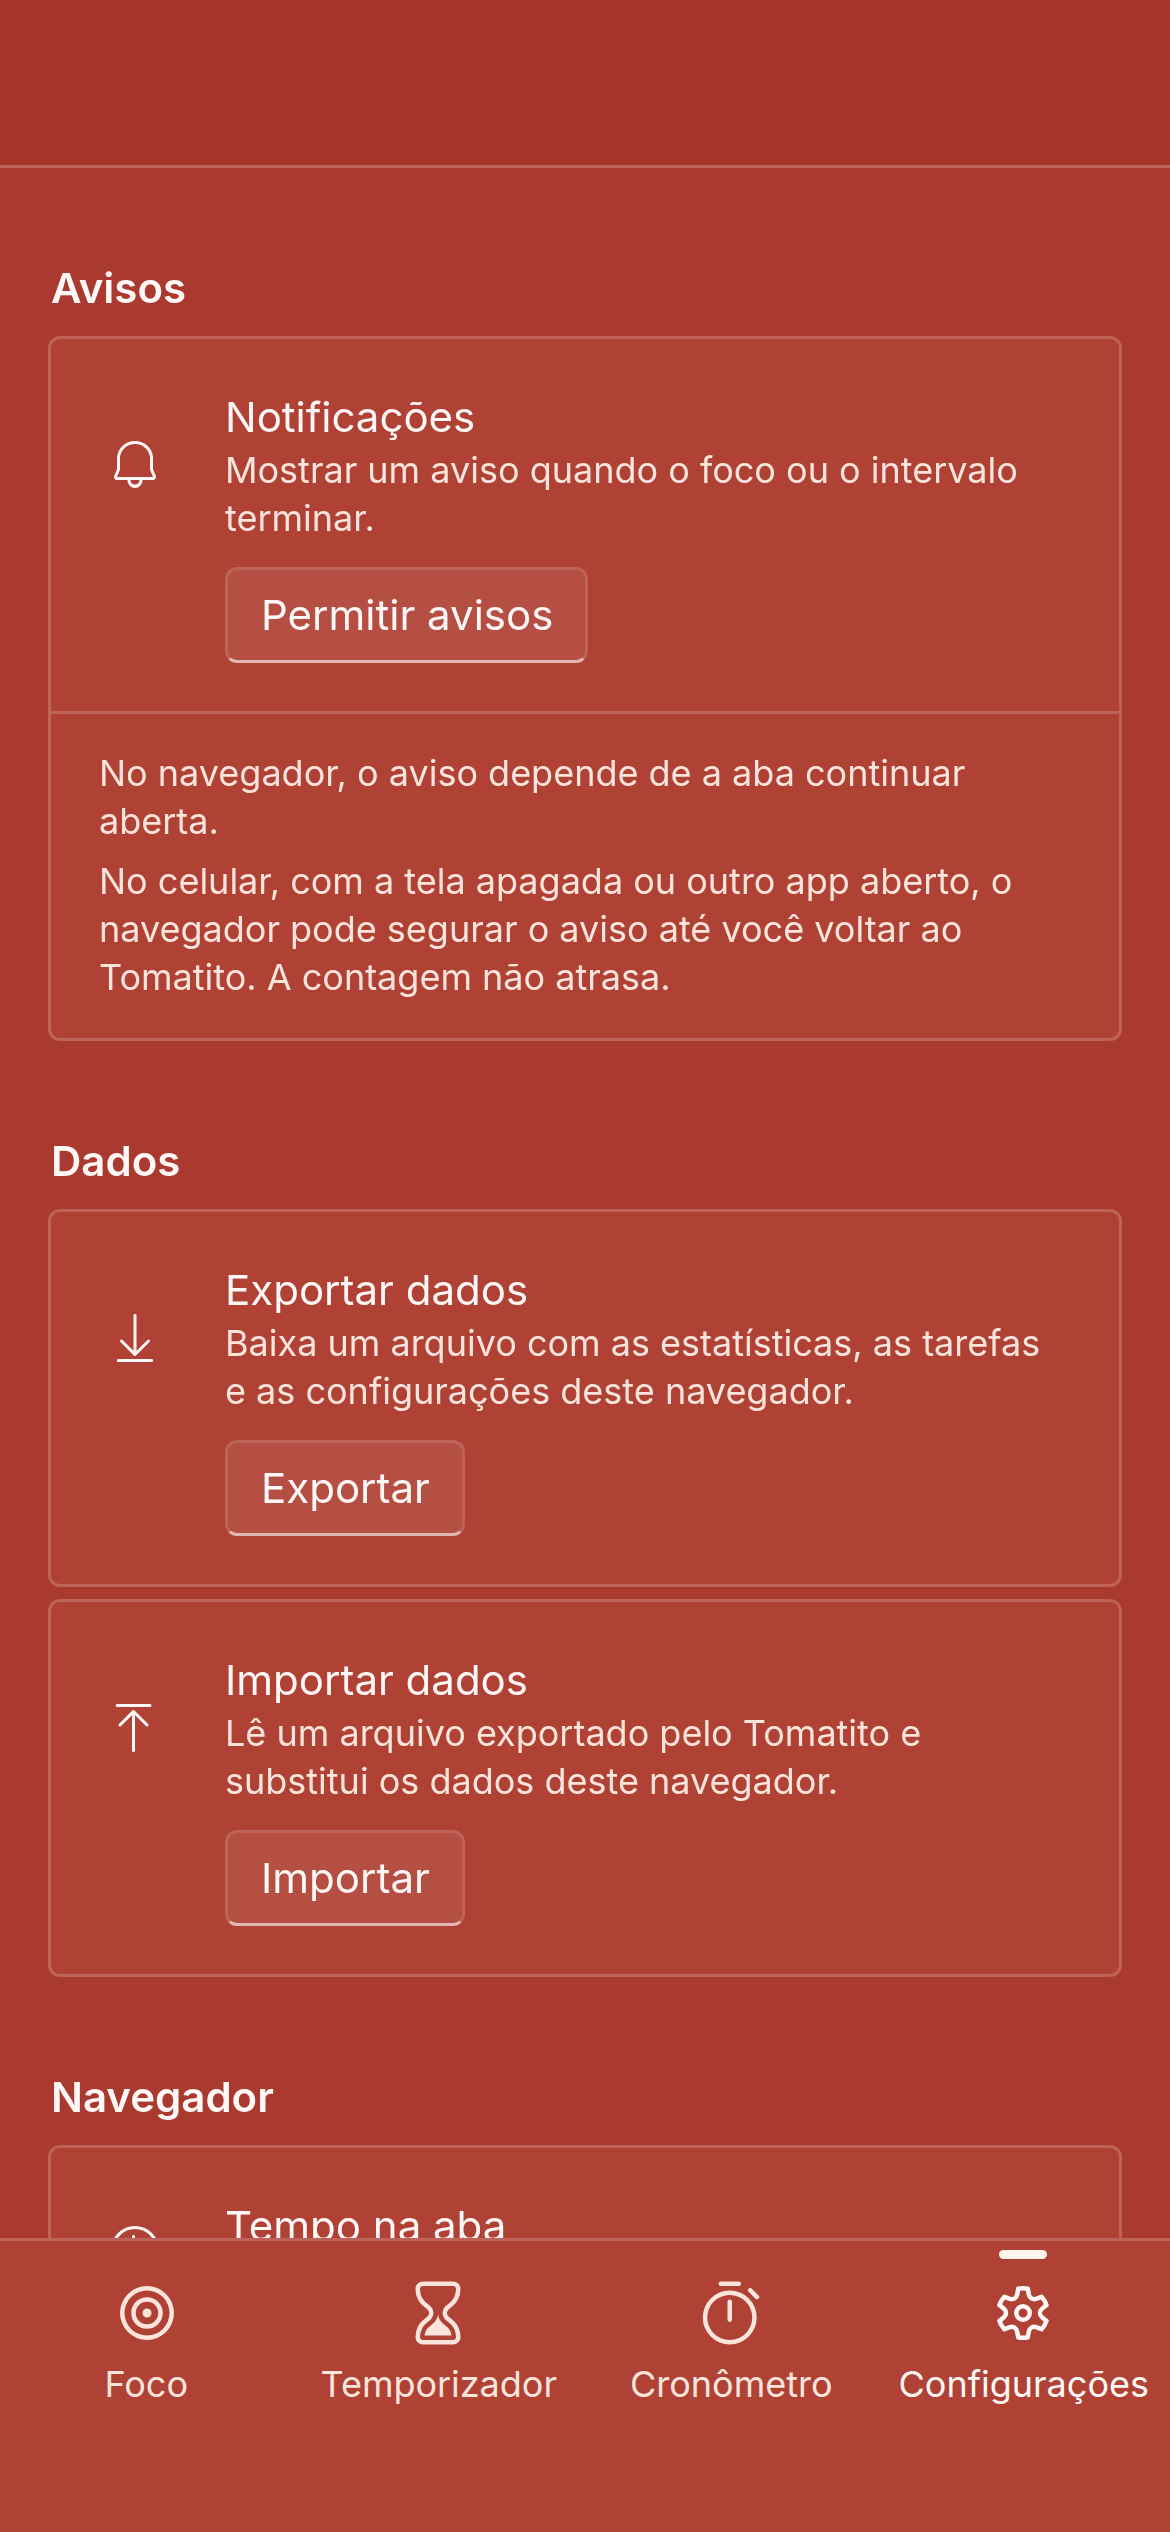
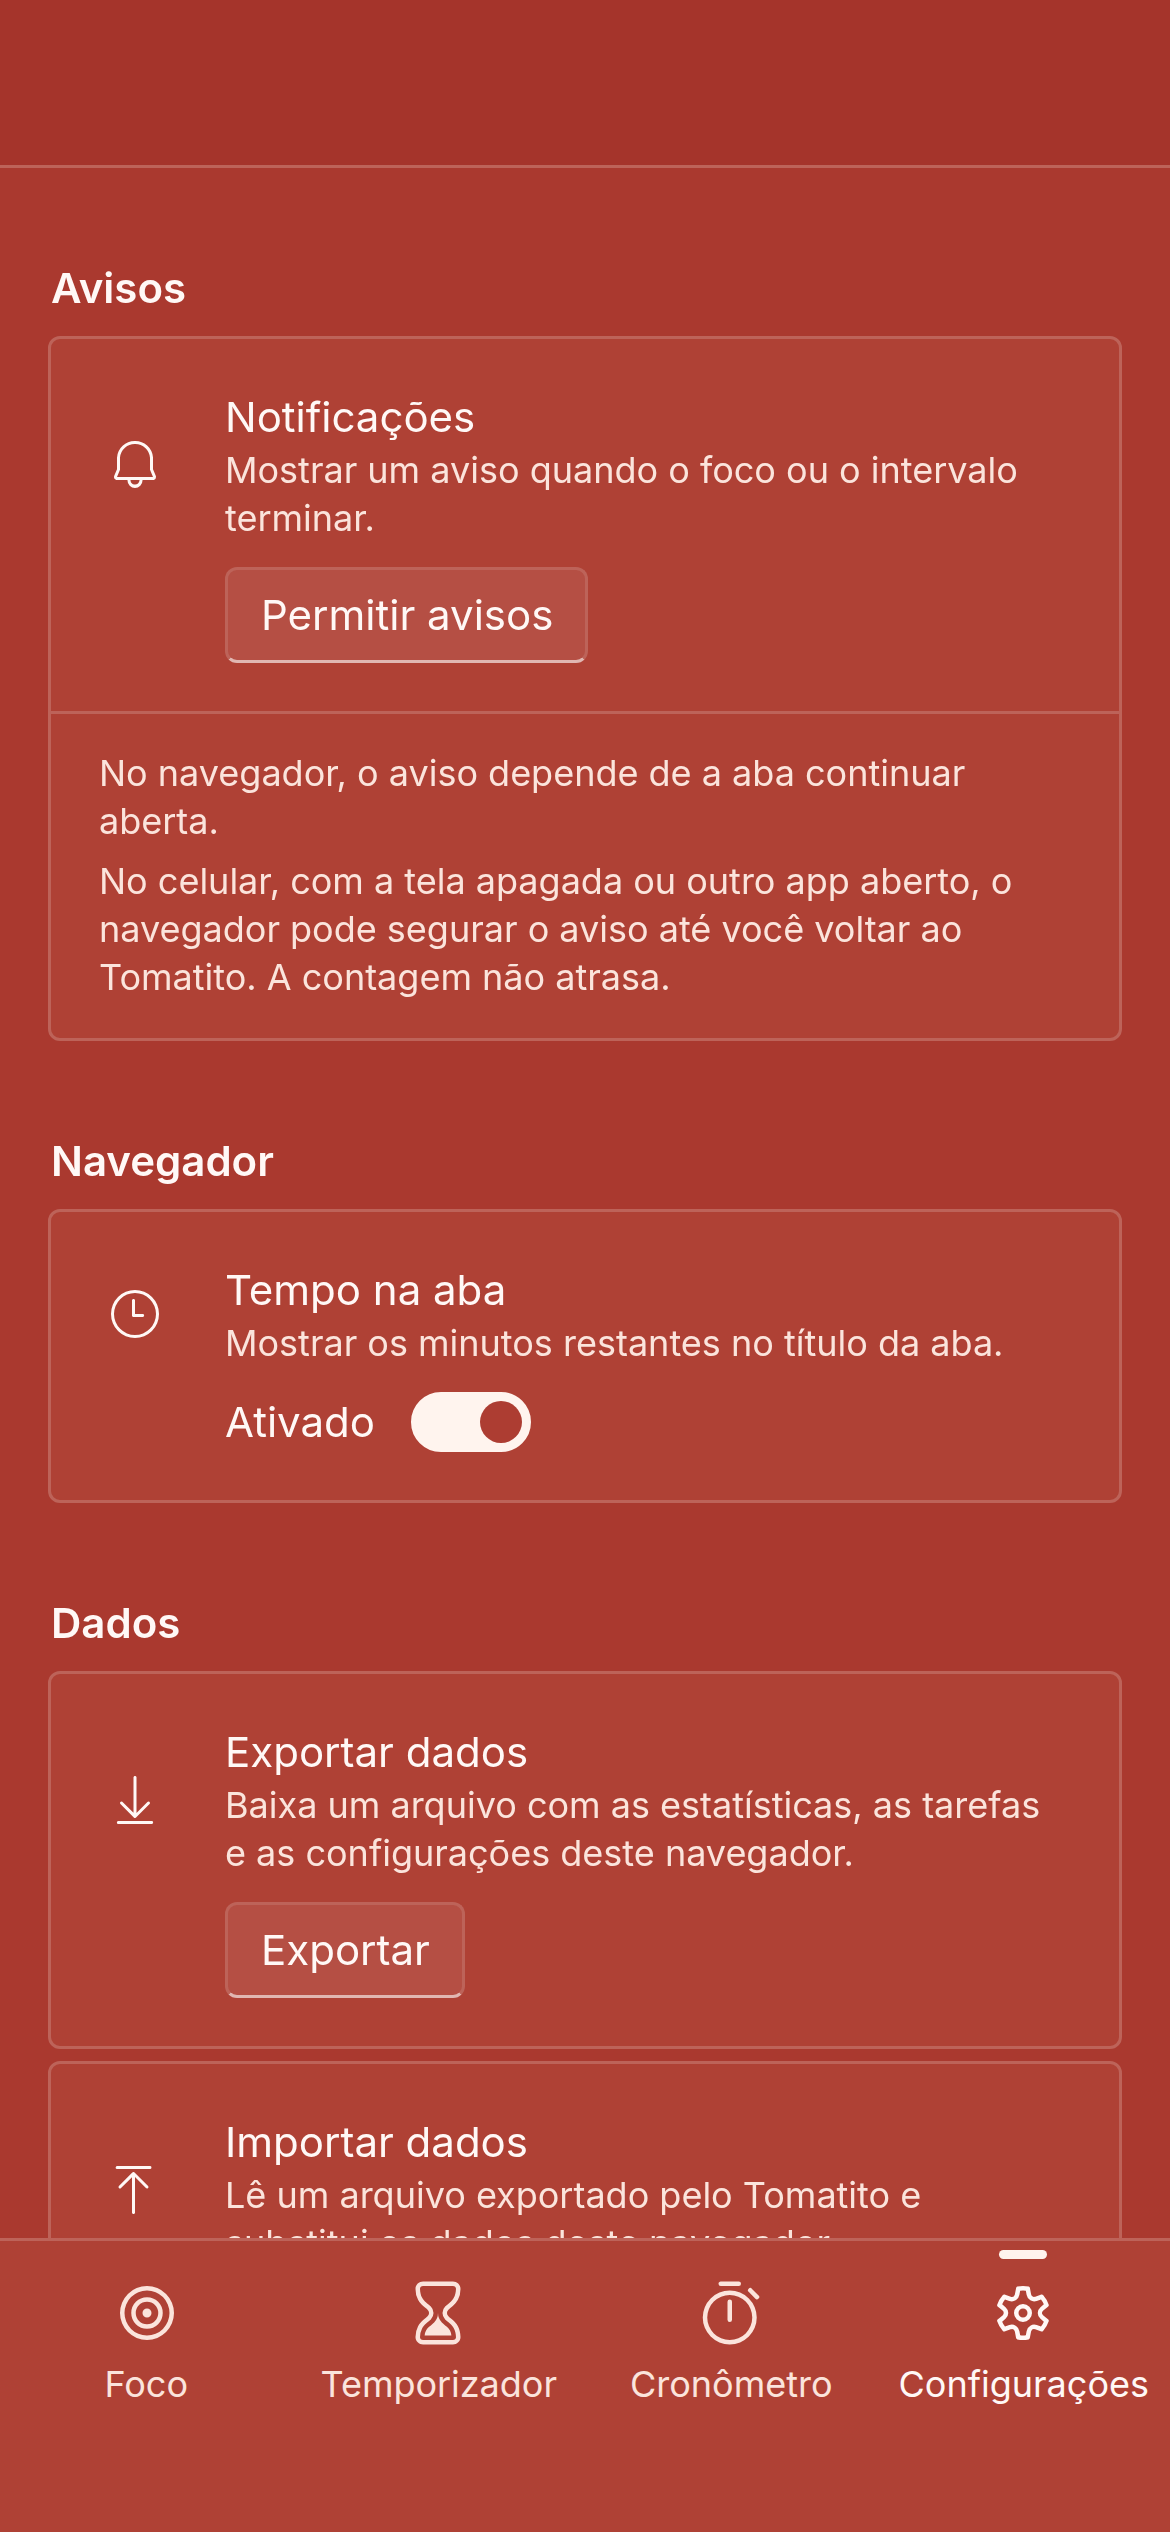
Web: ordem fixa das seções Navegador e Dados

diff --git a/src/views/navegador-web.js b/src/views/navegador-web.js
@@ -74,8 +74,12 @@ export function ligarNavegadorWeb(pagina, { icone = semIcone, plataforma = plata
     const aba = plat.abaDaCasca ?? null;
     const inst = plat.instalacaoDaCasca ?? null;
     const html = marcacao({ ligado: aba ? aba.ligado() : true, instalavel: Boolean(inst?.disponivel()), icone });
+    // v0.3: antes da Dados (dados-web.js), se ela já montou: as duas chegam
+    // em qualquer ordem, e a página fica sempre Navegador, Dados.
     const antes =
-      pagina.querySelector?.('[data-secao="atualizacao"]') ?? pagina.querySelector?.('[aria-labelledby="config-sobre-secao"]');
+      pagina.querySelector?.('[data-secao="dados"]') ??
+      pagina.querySelector?.('[data-secao="atualizacao"]') ??
+      pagina.querySelector?.('[aria-labelledby="config-sobre-secao"]');
     if (antes) {
       antes.insertAdjacentHTML('beforebegin', html);
       secao = antes.previousElementSibling;
